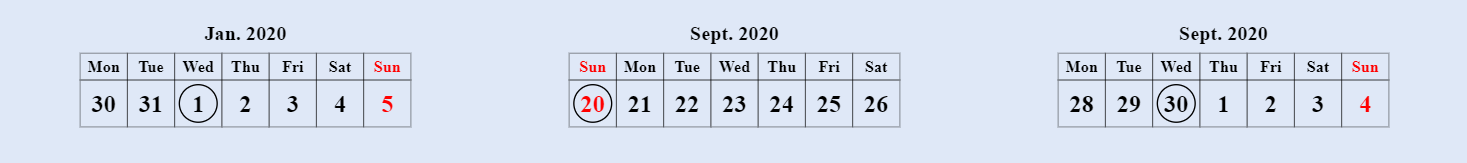
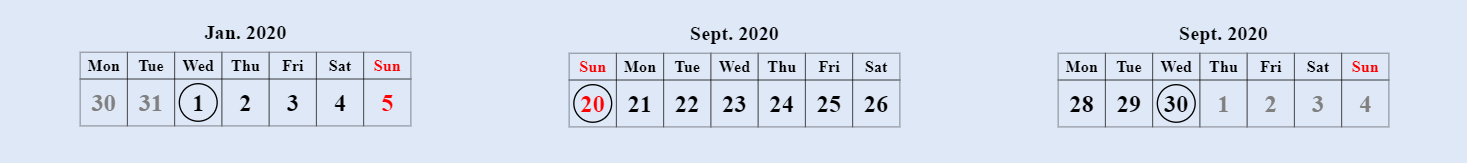
other month

diff --git a/editor/animation/init.js b/editor/animation/init.js
@@ -35,6 +35,9 @@ requirejs(['ext_editor_io', 'jquery_190', 'raphael_210'],
                 sunday: {
                     'fill': 'red',
                 },
+                other_month: {
+                    'fill': 'gray',
+                },
                 frame: {
                     'stroke-width': 0.2,
                 },
@@ -81,16 +84,19 @@ requirejs(['ext_editor_io', 'jquery_190', 'raphael_210'],
              for (let i = 0; i < 7; i += 1) {
                 let offset = i*edge
                 let cur_weekday = (first_week_day+i) % 7
-                let ps = paper.set()
-                ps.push(paper.text(left+edge/2+offset, 40, weekday_english_list[cur_weekday]).attr(attr.weekday))
-                ps.push(paper.text(left+edge/2+offset, 50+edge/2, answer[i]).attr(attr.day))
+                let disp_week_day = paper.text(left+edge/2+offset, 40, weekday_english_list[cur_weekday]).attr(attr.weekday)
+                let disp_day = paper.text(left+edge/2+offset, 50+edge/2, answer[i]).attr(attr.day)
                 paper.rect(left+offset, 30, edge, 20).attr(attr.frame)
                 paper.rect(left+offset, 50, edge, edge).attr(attr.frame)
                 if (answer[i] == day) {
                     paper.circle(left+edge/2+offset, 50+edge/2, edge/2*0.8)
                 }
                 if (cur_weekday == 6) {
-                    ps.attr(attr.sunday)
+                    disp_week_day.attr(attr.sunday)
+                    disp_day.attr(attr.sunday)
+                }
+                if (day - 6 > answer[i] || day + 6 < answer[i]) {
+                    disp_day.attr(attr.other_month)
                 }
              }
         }
